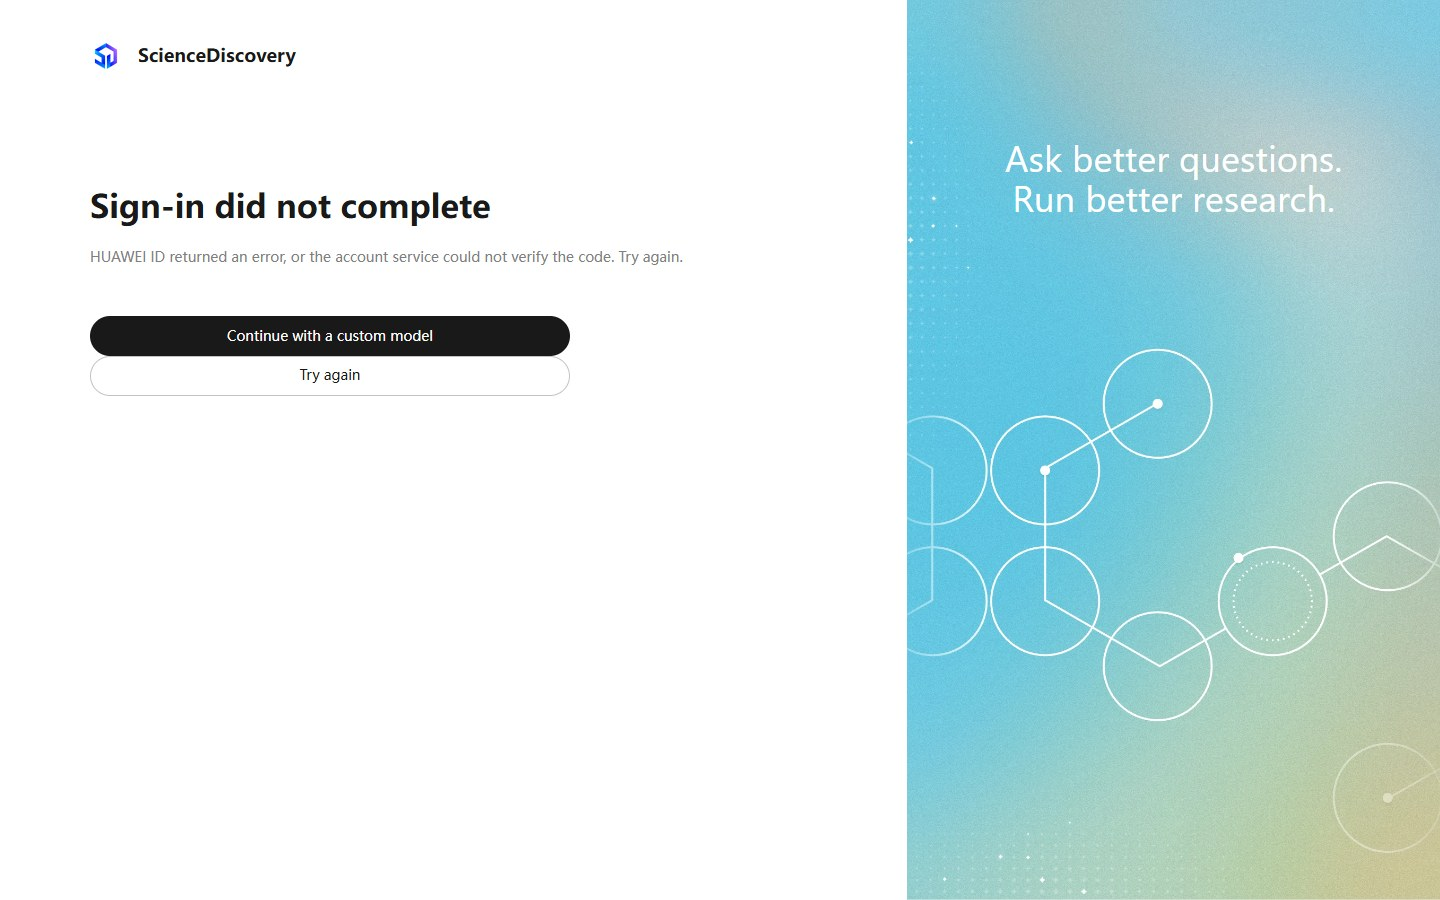
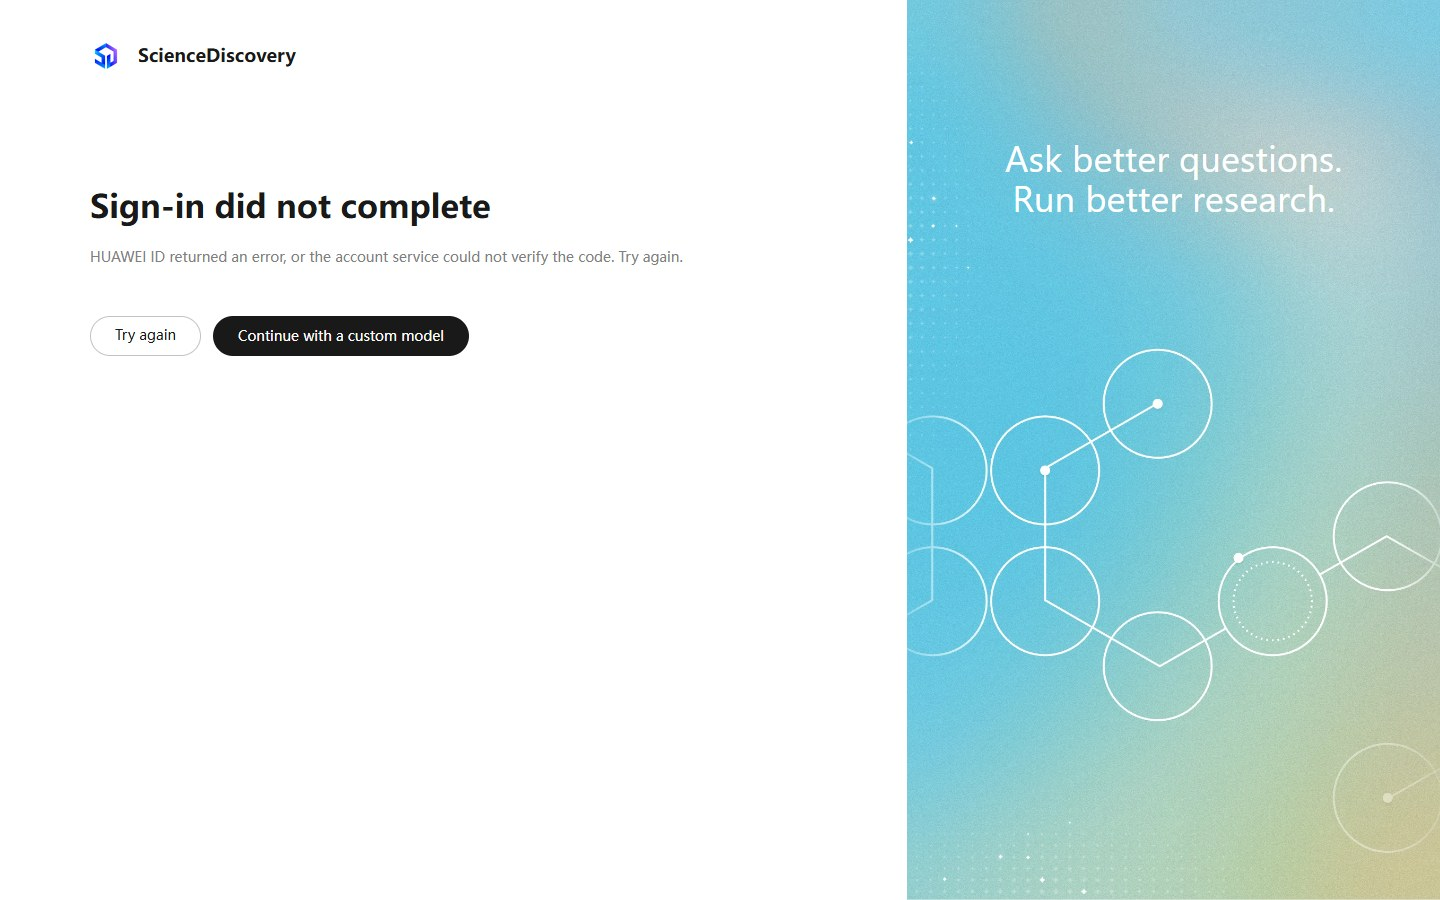
fix(desktop): put the sign-in failure choices on one row
Retry sits on the left, the custom-model route on the right; both are sized to
their labels instead of the column, with the entry row's 12px gap between them.
Their colours are unchanged.

Changed region(s): [[0.0625, 0.3422, 0.4062, 0.4356]]

diff --git a/apps/desktop/src/views/LoginPage.tsx b/apps/desktop/src/views/LoginPage.tsx
@@ -390,26 +390,28 @@ export function LoginPage({
                 <p className="login-lead">
                   {failure === "timeout" ? TEXT.login.timeoutBody : TEXT.login.errorBody}
                 </p>
-                <div className="login-actions">
+                <div className={offerModelSetup ? "login-actions login-actions-inline" : "login-actions"}>
                   {offerModelSetup ? (
-                    <button
-                      className="primary-button login-wide"
-                      onClick={() => {
-                        setStep("idle");
-                        setEntry("model");
-                      }}
-                      type="button"
-                    >
-                      {TEXT.login.continueToModel}
+                    <>
+                      <button className="secondary-button login-fit" onClick={() => setStep("idle")} type="button">
+                        {TEXT.login.retry}
+                      </button>
+                      <button
+                        className="primary-button login-fit"
+                        onClick={() => {
+                          setStep("idle");
+                          setEntry("model");
+                        }}
+                        type="button"
+                      >
+                        {TEXT.login.continueToModel}
+                      </button>
+                    </>
+                  ) : (
+                    <button className="primary-button login-wide" onClick={() => setStep("idle")} type="button">
+                      {TEXT.login.retry}
                     </button>
-                  ) : null}
-                  <button
-                    className={offerModelSetup ? "secondary-button login-wide" : "primary-button login-wide"}
-                    onClick={() => setStep("idle")}
-                    type="button"
-                  >
-                    {TEXT.login.retry}
-                  </button>
+                  )}
                 </div>
               </section>
             ) : (

diff --git a/apps/desktop/src/styles/login.css b/apps/desktop/src/styles/login.css
@@ -94,6 +94,24 @@
   margin-top: 48px;
 }
 
+/* The failure panel's two ways forward share one row: retry first, the
+   custom-model route second. Both are sized to their labels rather than to the
+   column, and the entry row's 12px gap keeps them from touching. Colours stay
+   the buttons' own: retry is the outlined one, the model route the filled one. */
+.login-actions-inline {
+  display: flex;
+  flex-wrap: wrap;
+  align-items: center;
+  gap: 12px;
+}
+
+.login-page .login-fit {
+  flex: 0 0 auto;
+  width: auto;
+  padding: 0 20px;
+  white-space: nowrap;
+}
+
 /* Step one offers both ways in at once: the account button leads, and the
    bring-your-own-model route sits beside it as a real button rather than a
    footnote-style link below. The row is set further down so the copy above it
